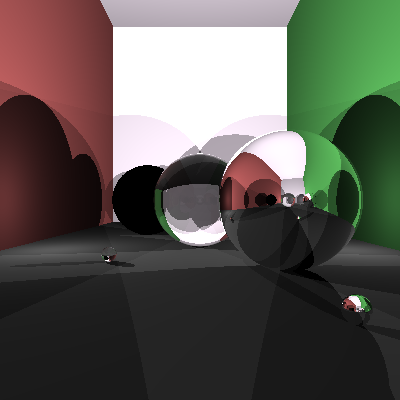
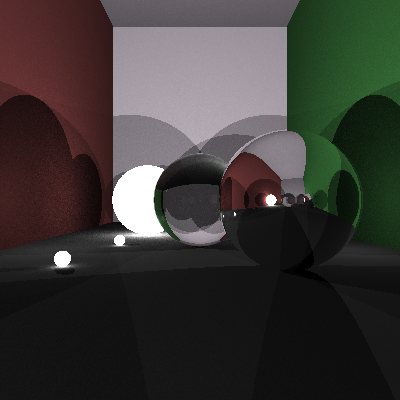
Sorta working.

diff --git a/src/scene/Scene.cs b/src/scene/Scene.cs
@@ -99,10 +99,10 @@ namespace RayTracer
             if (depth <= 0 || sourceRh == null) return Color.Black(); // If nothing is hit, you're off to the abyss so return bg.
 
             // Get emitted color.
-            Color emitted = sourceRh.Emitted();
             if (sourceRh.Material.Type == Material.MaterialType.Emissive)
             {
-                emissiveColor = RayColor(new Ray(sourceRh.Position, sourceRh.EmittedDir()).Offset(), depth - 1);
+                //emissiveColor = RayColor(new Ray(sourceRh.Position, sourceRh.EmittedDir()).Offset(), depth - 1);
+                emissiveColor = sourceRh.Emitted();
             }
 
             if (sourceRh.Material.Type == Material.MaterialType.Reflective)
@@ -139,6 +139,25 @@ namespace RayTracer
                     if (shadowRh != null && shadowRay.Origin.LengthWith(shadowRh.Position) < shadowRay.Origin.LengthWith(pl.Position)) continue;
 
                     diffuseColor += sourceRh.Normal.Normalized().Dot(lightDir) * sourceRh.Material.Color * pl.Color;
+                }
+
+                foreach (SceneEntity e in entities)
+                {
+                    if (!(e.Material.Type == Material.MaterialType.Emissive)) continue;
+
+                    int samplenum = 200;
+                    for (int i = 0; i < samplenum; i++)
+                    {
+                        // Ray to point light hit.
+                        Vector3 lightDir = Vector3.RandomNormSphere();
+                        Ray shadowRay = new Ray(sourceRh.Position, lightDir).Offset();
+                        RayHit shadowRh = ClosestHit(shadowRay);
+
+                        // If the current ray (r) is NOT in shadow (ray from intersection to light is blocked by entity).
+                        if (shadowRh != null && shadowRh.Material.Type != Material.MaterialType.Emissive) continue;
+
+                        diffuseColor += (sourceRh.Normal.Normalized().Dot(lightDir) * sourceRh.Material.Color * e.Material.Color) * (1.0f / samplenum);
+                    }
                 }
             }
 

diff --git a/src/scene/primitives/Triangle.cs b/src/scene/primitives/Triangle.cs
@@ -26,7 +26,7 @@ namespace RayTracer
         }
 
         /// <summary>
-        /// Determine if a ray intersects with the triangle, and if so, return hit data.
+        /// Determine if a ray intersects with the triangle,nd if so a, return hit data.
         /// </summary>
         /// <param name="ray">Ray to check</param>
         /// <returns>Hit data (or null if no intersection)</returns>
@@ -68,9 +68,50 @@ namespace RayTracer
             return new RayHit(P, norm, ray.Direction, this.material);
         }
 
-        Color Emitted()
+        /// <summary>
+        /// Generates ray array of points from the shadowpoint (world point) to this
+        /// entity. The rays are encapsulated inside a cone.
+        /// </summary>
+        public Ray[] ConeSamples(Ray shadowRay)
         {
-            return this.material.Color;
+            // Calculate Cone
+            double sideLen = 0.0f; // TODO: this is smelly.
+            Vector3 centerpos = CenterPos(ref sideLen);
+
+
+
+            return null;
+        }
+
+        /// <summary>
+        /// Returns center of the longest edge.
+        /// </summary>
+        private Vector3 CenterPos(ref double radius)
+        {
+            double l0 = (v0 - v1).Length();
+            double l1 = (v0 - v2).Length();
+            double l2 = (v1 - v2).Length();
+            double max = Math.Max(l0, Math.Max(l1, l2));
+
+            if (MyMath.DoubleEquals(l0, max))
+            {
+                radius = l0;
+                return (v0 + v1) / 2.0f;
+            }
+
+            if (MyMath.DoubleEquals(l1, max))
+            {
+                radius = l1;
+                return (v0 + v2) / 2.0f;
+            }
+
+            if (MyMath.DoubleEquals(l2, max))
+            {
+                radius = l2;
+                return (v1 + v2) / 2.0f;
+            }
+
+            return new Vector3(0.0f, 0.0f, 0.0f);
         }
 
         /// <summary>

diff --git a/tests/final_scene.py b/tests/final_scene.py
@@ -14,7 +14,7 @@ FLOOR_HEIGHT = -1
 LEFT_RIGHT_DIST = 1
 
 # Light Parameters
-LIGHT_INTENSITY = 0.4
+LIGHT_INTENSITY = 0.2
 NUM_EDGE_LIGHTS = 2
 
 def gen():
@@ -33,16 +33,16 @@ def gen():
     f.write('Material "GlassMat" Refractive (1, 1, 1) 1.4\n')
     f.write('Material "MirrorMat" Reflective (1, 1, 1) 1\n')
 
-    f.write('Material "WhiteEmissive" Emissive (.9, .85, .9) 1\n')
+    f.write('Material "WhiteEmissive" Emissive (1, 1, 1) 1\n')
 
     # BIG MARBLES
     f.write('Sphere "BigBoi1" (-1.5, 0, 10) 1 "WhiteEmissive"\n')
     f.write('Sphere "BigBoi2" (0, 0, 7.5) 1 "GlassMat"\n')
     f.write('Sphere "BigBoi3" (1.25, 0, 5) 1 "MirrorMat"\n')
 
-    f.write('Sphere "BigBoi4" (-3, 0, -1) 1 "WhiteEmissive"\n')
+    f.write('Sphere "BigBoi4" (3, 0, -1) 1 "WhiteEmissive"\n')
     f.write('Sphere "BigBoi5" (0, 0, -1) 1 "GlassMat"\n')
-    f.write('Sphere "BigBoi6" (3, 0, -1) 1 "MirrorMat"\n')
+    f.write('Sphere "BigBoi6" (-3, 0, -1) 1 "MirrorMat"\n')
 
     # BOX
     sideLenAdj = SIDE_LEN - MARBLE_RADIUS
@@ -68,7 +68,7 @@ def gen():
         mattype = ""
         mat = random.randint(0, 2)
         if mat == 0:
-            mattype = "GreyMat"
+            mattype = "WhiteEmissive"
         elif mat == 1:
             mattype = "GlassMat"
         elif mat == 2:

diff --git a/src/math/Mat3.cs b/src/math/Mat3.cs
@@ -1,0 +1,31 @@
+using System;
+using System.Collections.Generic;
+using System.Text;
+
+namespace RayTracer.src.math
+{
+    class Mat3
+    {
+        Vector3 row0;
+        Vector3 row1;
+        Vector3 row2;
+
+        public Mat3(Vector3 x, Vector3 y, Vector3 z)
+        {
+            this.row0 = x;
+            this.row1 = y;
+            this.row2 = z;
+        }
+
+        public static Vector3 operator *(Mat3 x, Vector3 y)
+        {
+            return new Vector3(x.x.X * );
+        }
+
+        public override string ToString()
+        {
+            return "(" + this.row0 + "," + this.row1 + "," + this.row2 + ")";
+        }
+
+    }
+}

diff --git a/src/scene/primitives/Sphere.cs b/src/scene/primitives/Sphere.cs
@@ -54,10 +54,11 @@ namespace RayTracer
             return new RayHit(pos, norm, ray.Direction, this.material);
         }
 
-        Color Emitted()
+        public Ray[] ConeSamples(Vector3 shadowPoint)
         {
-            return this.material.Color;
+            return null;
         }
+
 
         /// <summary>
         /// The material of the sphere.

diff --git a/src/math/RayHit.cs b/src/math/RayHit.cs
@@ -88,11 +88,12 @@ namespace RayTracer
 
         public Color Emitted()
         {
-            return Color.Black();
+            return this.material.Color;
         }
 
         public Vector3 EmittedDir()
         {
+
             return new Vector3(0.0f, 0.0f, 0.0f);
         }
 

diff --git a/src/scene/SceneEntity.cs b/src/scene/SceneEntity.cs
@@ -33,6 +33,11 @@ namespace RayTracer
             return Color.Black();
         }
 
+        Ray[] ConeSamples(Vector3 shadowPoint)
+        {
+            return null;
+        }
+
         /// <summary>
         /// The material assigned to this entity.
         /// </summary>

diff --git a/src/math/MyMath.cs b/src/math/MyMath.cs
@@ -45,5 +45,11 @@ namespace RayTracer
             x = y;
             y = tmp;
         }
+
+        public static bool DoubleEquals(double x, double y)
+        {
+            double epsilon = 0.00001f;
+            return Math.Abs(x - y) < epsilon;
+        }
     }
 }

diff --git a/README.md b/README.md
@@ -119,3 +119,7 @@ glm (referencing their vector methods against my own): https://github.com/g-truc
 tinyraytracer: https://github.com/ssloy/tinyraytracer
 
 Refraction Paper: https://graphics.stanford.edu/courses/cs148-10-summer/docs/2006--degreve--reflection_refraction.pdf
+
+Ray-tracing soft shadows in real-time: https://medium.com/@alexander.wester/ray-tracing-soft-shadows-in-real-time-a53b836d123b
+
+Ray tracing - soft shadow: https://stackoverflow.com/questions/31709332/ray-tracing-soft-shadow
